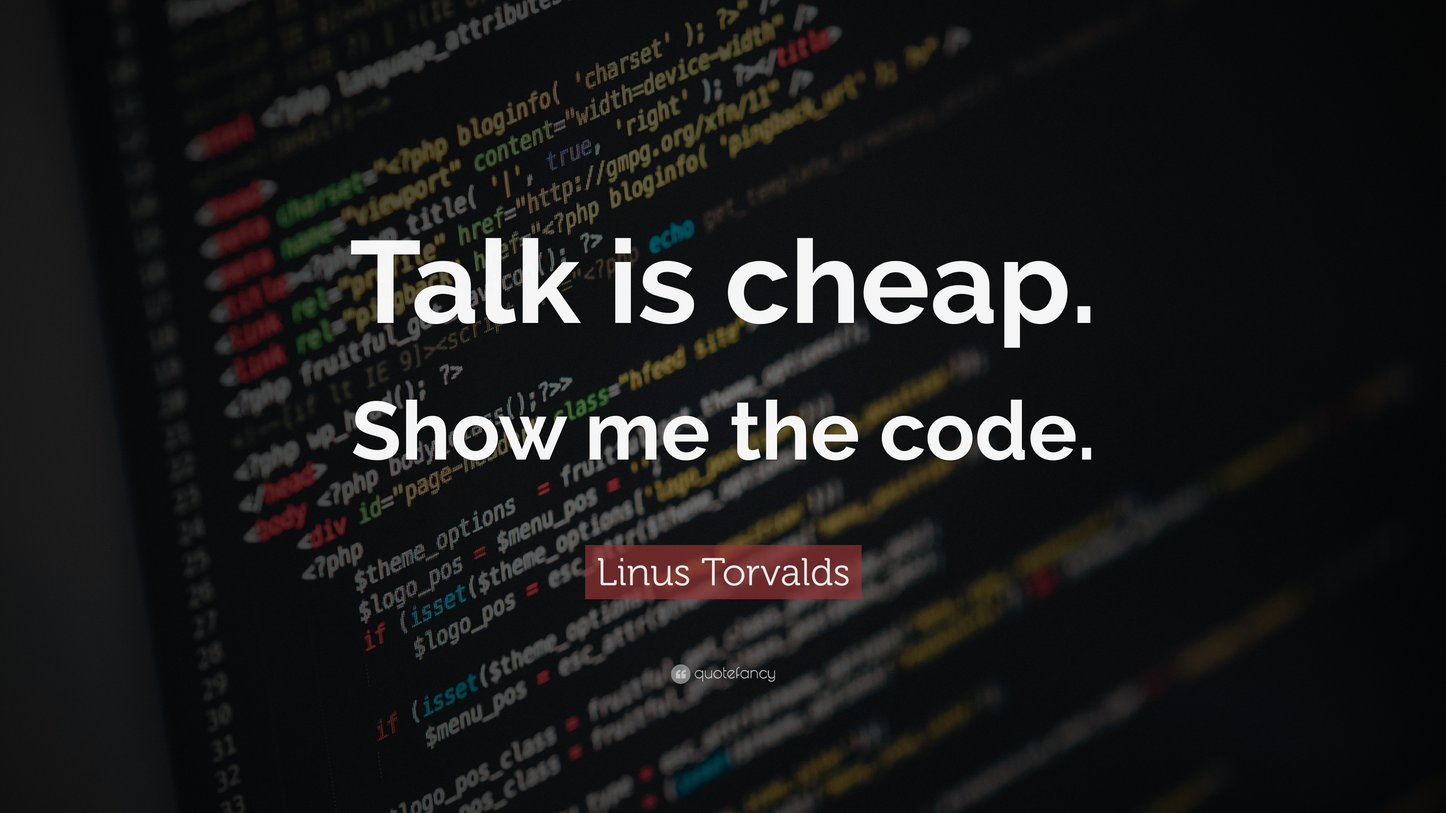
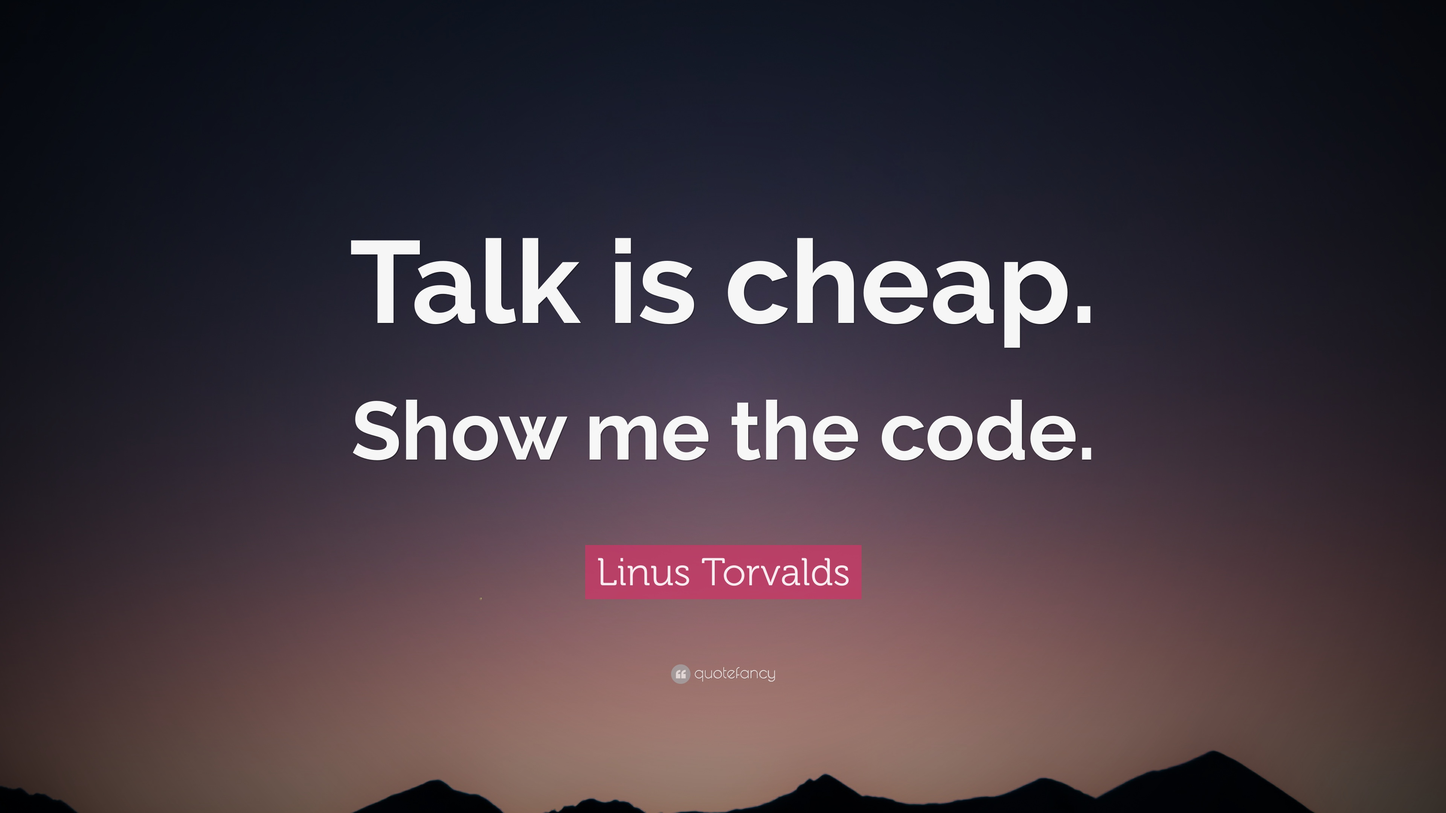
Trying URL background cover css

diff --git a/style.css b/style.css
@@ -22,12 +22,12 @@ p {
 
 .cover {
   height: 400px;
-  background-image: cover.jpg;
+  background-image: url("cover.jpg");
   background-size: cover;
   background-position: center;
-  background-color: rgba(0, 0, 0, 0.5);
-  background-blend-mode: darken;
+  background-color: #fff;
   color: white;
+  
 }
 .card {
   border: 0;
